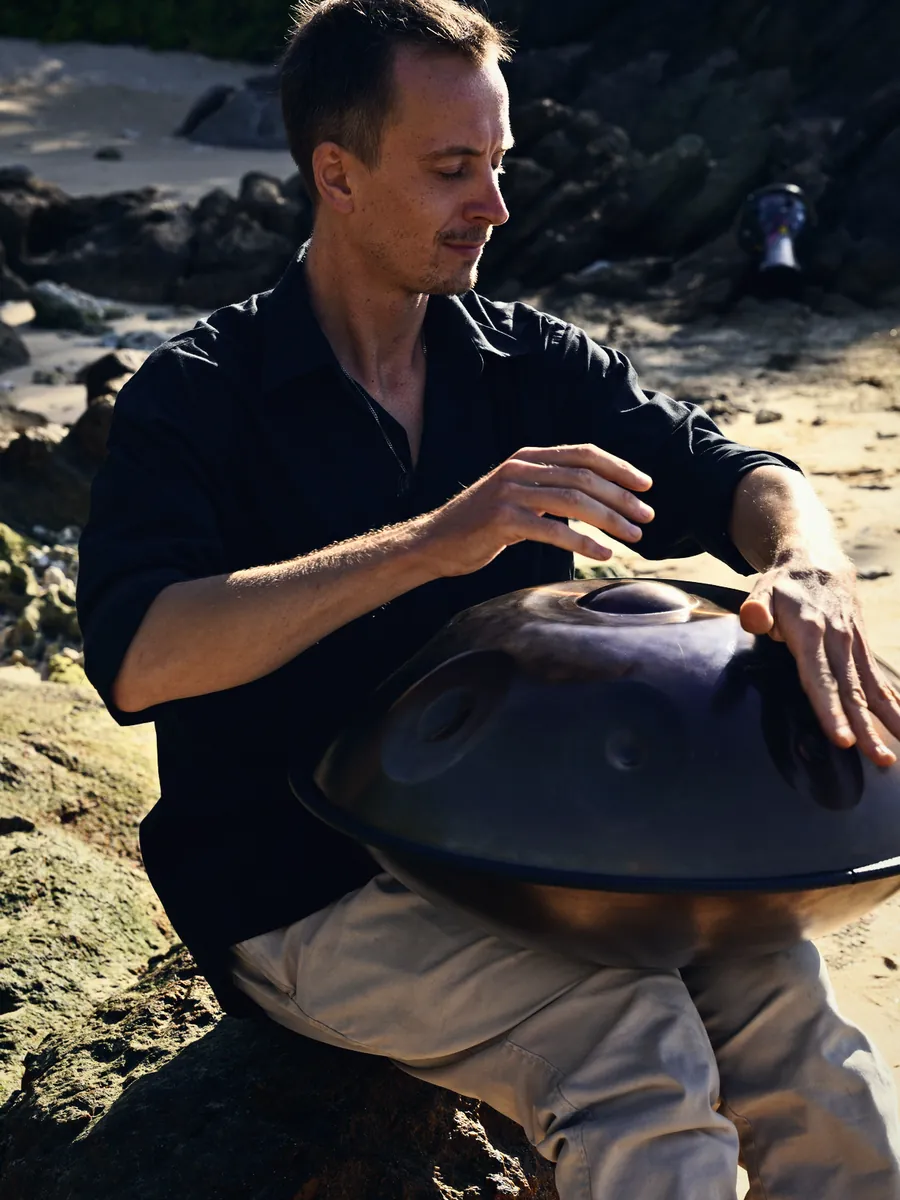
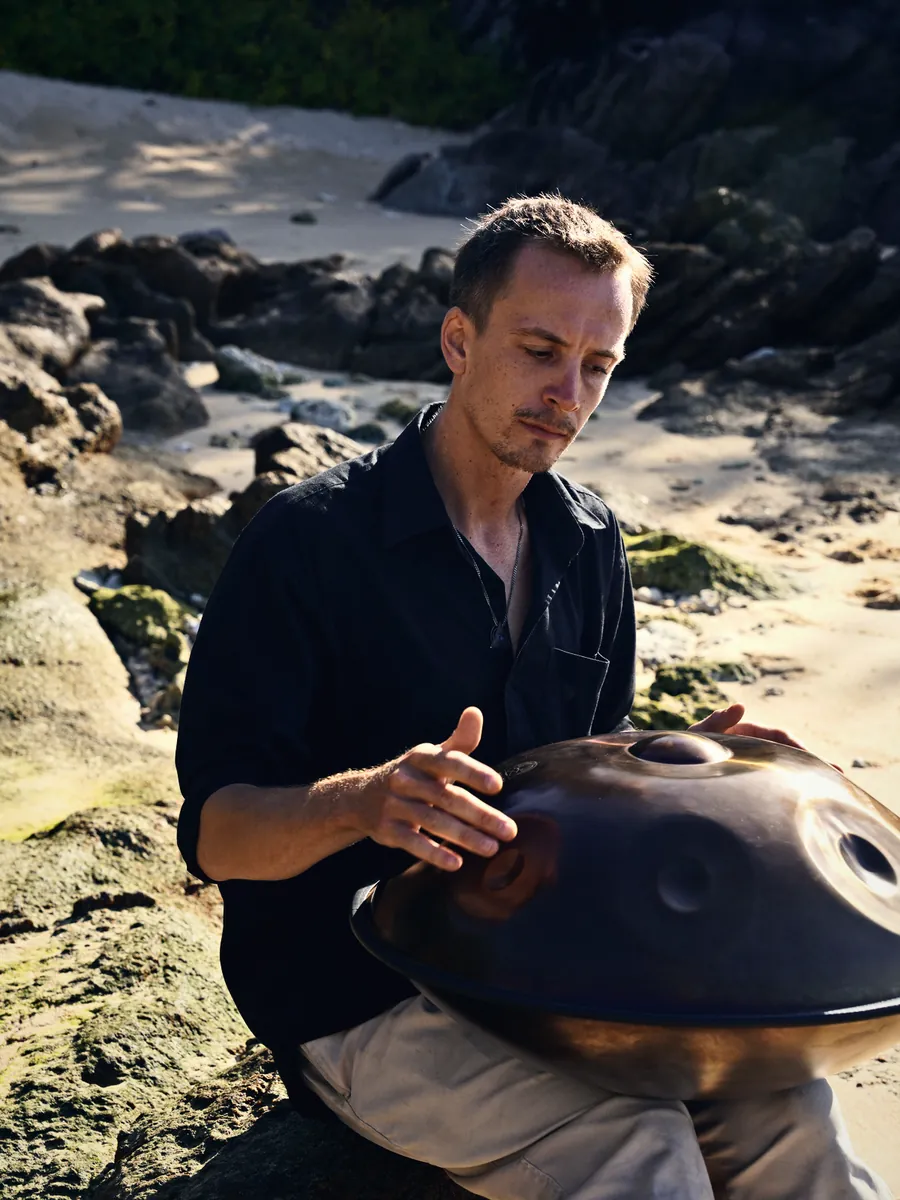
Ice case for photos, tipi in the Temple of Sound, Cinematic in projects, Zemli Sily text, headroom on the andynow.ru case

diff --git a/src/assets/css/site.css b/src/assets/css/site.css
@@ -254,6 +254,67 @@ p { margin: 0 0 1em; }
     inset 0 0 28px rgba(200, 234, 244, 0.1); }
 .resin .photo-in img { scale: 1.035; translate: var(--dx) var(--dy); transition: transform 1s var(--ease), translate .8s var(--ease); }
 .resin.is-tilting .photo-in img { transition: transform 1s var(--ease), translate .18s linear; }
+/* ── ice case: every photo is set in a thick block of clear resin or ice ───────────────────────────
+   The block (.slab, or .ice-box for rooms and videos) is a pale rounded slab with a bright rim; its
+   thick edge catches warm and cool light (.glass::before, a ring masked out of two gradients and a
+   little blurred); round the picture runs a bevel with a split of colour, red on one side and blue on
+   the other, and a sheen that follows the cursor (.glass::after). It leans towards the cursor. */
+.slab, .ice-box { --pad: clamp(10px, 1.4vw, 20px); --r: 30px; --ri: 16px; --rx: 0deg; --ry: 0deg; --mx: 30%; --my: 0%; --dx: 0px; --dy: 0px;
+  position: relative; display: block; padding: var(--pad); border-radius: var(--r); isolation: isolate;
+  background: linear-gradient(140deg, #FFFFFF 0%, #E4ECF0 30%, #FBFDFD 50%, #D7E2E8 78%, #EEF3F5 100%);
+  box-shadow:
+    inset 0 0 0 1px rgba(255, 255, 255, 0.95),
+    inset 0 0 0 2px rgba(150, 170, 182, 0.25),
+    inset 0 3px 2px -1px #fff,
+    inset 0 -4px 8px rgba(100, 122, 135, 0.32),
+    inset 6px 0 10px -4px rgba(255, 145, 45, 0.55),
+    inset -6px 0 10px -4px rgba(80, 160, 255, 0.45),
+    0 0 0 1px rgba(16, 22, 27, 0.08),
+    0 3px 8px -3px rgba(16, 22, 27, 0.16),
+    0 40px 70px -36px rgba(16, 22, 27, 0.6);
+  transform: perspective(1100px) rotateX(var(--rx)) rotateY(var(--ry)); transition: transform .8s var(--ease), box-shadow .8s var(--ease); }
+.slab.is-tilting, .ice-box.is-tilting { transition-duration: .18s, .5s; }
+.slab > .photo-in { border-radius: var(--ri); }
+.slab .photo-in img, .ice-box .photo-in img, .ice-box .video-pic img { scale: 1.035; translate: var(--dx) var(--dy); transition: transform 1s var(--ease), translate .8s var(--ease), opacity .4s; }
+.is-tilting .photo-in img, .is-tilting .video-pic img { transition: transform 1s var(--ease), translate .18s linear, opacity .4s; }
+.glass { position: absolute; inset: 0; z-index: 5; border-radius: inherit; pointer-events: none; }
+.glass::before { content: ''; position: absolute; inset: 0; border-radius: inherit; padding: var(--pad);
+  background:
+    linear-gradient(125deg, rgba(255, 255, 255, 0) 26%, rgba(255, 255, 255, 0.85) 30%, rgba(255, 255, 255, 0) 35%),
+    linear-gradient(100deg, rgba(255, 128, 30, 0.85) 0%, rgba(255, 210, 100, 0.55) 8%, rgba(255, 255, 255, 0) 22%, rgba(255, 255, 255, 0) 72%, rgba(150, 120, 255, 0.35) 86%, rgba(90, 185, 255, 0.6) 94%, rgba(255, 110, 60, 0.7) 100%),
+    linear-gradient(180deg, rgba(255, 200, 80, 0.6) 0%, rgba(255, 255, 255, 0) 22%, rgba(255, 255, 255, 0) 78%, rgba(255, 110, 40, 0.7) 100%);
+  -webkit-mask: linear-gradient(#000 0 0) content-box, linear-gradient(#000 0 0); -webkit-mask-composite: xor;
+  mask: linear-gradient(#000 0 0) content-box, linear-gradient(#000 0 0); mask-composite: exclude;
+  filter: blur(2px); opacity: 0.85; }
+.glass::after { content: ''; position: absolute; inset: var(--pad); border-radius: var(--ri);
+  background:
+    radial-gradient(80% 60% at var(--mx) var(--my), rgba(255, 255, 255, 0.2), rgba(255, 255, 255, 0) 65%),
+    linear-gradient(160deg, rgba(255, 255, 255, 0.16) 0%, rgba(255, 255, 255, 0) 28%);
+  box-shadow:
+    0 0 0 1px rgba(255, 255, 255, 0.95),
+    0 0 0 2px rgba(120, 142, 155, 0.3),
+    0 0 10px 3px rgba(80, 100, 112, 0.22),
+    inset 0 0 0 1px rgba(255, 255, 255, 0.35),
+    inset 2px 0 3px -1px rgba(255, 40, 80, 0.5),
+    inset -2px 0 3px -1px rgba(20, 160, 255, 0.5),
+    inset 0 2px 3px -1px rgba(255, 210, 80, 0.4),
+    inset 0 0 22px rgba(255, 255, 255, 0.12); }
+/* rooms: the whole card is the block; its picture and words sit inside the edge */
+.room.ice-box { overflow: visible; background: linear-gradient(140deg, #FFFFFF 0%, #E7EEF1 34%, #FAFCFC 52%, #DCE6EB 100%); }
+.room.ice-box .photo-in { border-radius: var(--ri); background: var(--night); }
+.room.ice-box::after { inset: var(--pad); border-radius: var(--ri); }
+.room.ice-box h3 { left: calc(22px + var(--pad)); top: calc(20px + var(--pad)); right: calc(60px + var(--pad)); }
+.room.ice-box .room-n { right: calc(22px + var(--pad)); top: calc(26px + var(--pad)); }
+.room.ice-box p { left: calc(22px + var(--pad)); right: calc(64px + var(--pad)); bottom: calc(20px + var(--pad)); }
+.room.ice-box .room-go { right: calc(22px + var(--pad)); bottom: calc(18px + var(--pad)); }
+.room.ice-box .corners { inset: calc(12px + var(--pad)); }
+.room.ice-box:hover .corners { inset: calc(16px + var(--pad)); }
+/* videos: the poster inside the block */
+.video-play.ice-box { padding: var(--pad); overflow: visible; background: linear-gradient(140deg, #FFFFFF 0%, #E7EEF1 34%, #FAFCFC 52%, #DCE6EB 100%); }
+.video-pic { position: absolute; inset: var(--pad); overflow: hidden; border-radius: var(--ri); background: #000; }
+.video-pic img { display: block; }
+.video-play .play { z-index: 6; }
+
 /* cards without a photo: a block of ice on the white */
 .free-item.resin, .quiz-result.resin, .facts-cards li, .project-empty.resin { border: 0; background: linear-gradient(180deg, #FFFFFF 0%, #F1F5F6 100%); }
 .facts-cards li { position: relative; border-radius: 14px; box-shadow: 0 1px 1px rgba(16, 22, 27, 0.06), 0 2px 6px -2px rgba(16, 22, 27, 0.1), 0 26px 48px -30px rgba(16, 22, 27, 0.35), inset 0 0 0 1px rgba(255, 255, 255, 0.9), inset 0 -14px 28px -18px rgba(90, 130, 150, 0.18); }
@@ -264,7 +325,7 @@ p { margin: 0 0 1em; }
 .intro-text > p:not(.label):not(.lead) { max-width: 560px; color: var(--fg-2); font-weight: 300; }
 .intro-text .actions { margin-top: 28px; }
 
-.rooms-rail { overflow: hidden; }
+.rooms-rail { overflow: hidden; padding: 24px 0 64px; margin: -24px 0 -64px; }
 .rooms-grid { display: grid; grid-template-columns: repeat(4, minmax(0, 1fr)); gap: 12px; }
 .room { position: relative; display: block; overflow: hidden; color: #fff; text-decoration: none; background: var(--night); }
 .room .photo-in { border-radius: 0; }
@@ -344,7 +405,7 @@ p { margin: 0 0 1em; }
 
 .teacher { display: grid; grid-template-columns: minmax(0, 0.8fr) minmax(0, 1.2fr); gap: clamp(32px, 6vw, 96px); }
 .teacher p:not(.lead) { color: var(--fg-2); font-weight: 300; max-width: 620px; }
-.strip { display: grid; grid-auto-flow: column; grid-auto-columns: clamp(220px, 22vw, 340px); gap: 12px; margin-top: clamp(56px, 7vw, 96px); padding: 0 var(--gut); overflow-x: auto; scroll-snap-type: x mandatory; scrollbar-width: none; }
+.strip { display: grid; grid-auto-flow: column; grid-auto-columns: clamp(220px, 22vw, 340px); gap: 16px; margin-top: clamp(32px, 5vw, 72px); margin-bottom: -48px; padding: 24px var(--gut) 64px; overflow-x: auto; scroll-snap-type: x mandatory; scrollbar-width: none; }
 .strip::-webkit-scrollbar { display: none; }
 .strip .photo { scroll-snap-align: start; }
 
@@ -534,5 +595,5 @@ a.case:hover h3 { color: var(--orange); }
   .js .photo img { transform: none; }
   .js .photo.is-alive img { animation: none; }
   .live-scan, .stage-glow span { animation: none; top: 52%; }
-  .resin { transform: none; }
+  .resin, .slab, .ice-box { transform: none; }
 }

diff --git a/src/assets/js/site.js b/src/assets/js/site.js
@@ -89,9 +89,10 @@
     photos.forEach((el) => io.observe(el));
   } else photos.forEach((el) => el.classList.add('is-seen'));
 
-  // resin cards lean a little towards the cursor; the gloss follows it, the picture inside moves back
+  // resin cards and ice cases lean a little towards the cursor; the gloss follows it, the picture
+  // inside moves the other way, as if seen through a thick clear block
   if (!still && window.matchMedia('(hover: hover) and (pointer: fine)').matches) {
-    $$('.resin').forEach((el) => {
+    $$('.resin, .slab, .ice-box').forEach((el) => {
       let frame = 0;
       el.addEventListener('pointermove', (e) => {
         cancelAnimationFrame(frame);

diff --git a/tools/photos.py b/tools/photos.py
@@ -38,7 +38,7 @@ OUT = os.path.join(ROOT, 'src', 'assets', 'img')
 PHOTOS = {
     'hero-play':       (BANK + '/andy nika phuket/DSC09938.JPG', 'Andy Now играет на ханге'),
     'portrait-band':   (BANK + '/andy/IMG_5736.JPG', 'Andy Now в повязке и очках играет на ханге'),
-    'play-sun':        (BANK + '/andy nika phuket/DSC09941.JPG', 'Andy Now играет на ханге на солнце'),
+    'play-sun':        (BANK + '/andy nika phuket/DSC09931.JPG', 'Andy Now играет на ханге на камнях у моря'),
     'river-hat':       (ALTAI + '/DSC09998-1.jpg', 'Andy Now играет на ханге у реки на Алтае'),
     'river-wide':      (ALTAI + '/DSC09957-3.jpg', 'Andy Now играет на ханге у реки в горах Алтая'),
     'sculpture':       (ALTAI + '/DSC09370-1.jpg', 'Andy Now с хангом у светящейся скульптуры на Алтае'),
@@ -58,7 +58,7 @@ PHOTOS = {
     'session-wedding': (BANK + '/хэндпан свадьба/photo_2026-02-04 14.56.30.jpeg', 'Живой ханг на вечернем событии в лесу'),
     'event-portrait':  (BANK + '/photo andy handpan/3C6728CF-64FE-4E7F-A4C1-4C23041F4D0D.JPG', 'Andy Now играет на ханге на событии'),
     'temple-inside':   (HPS + '/temple-inside.webp', 'Внутри зеркального купола Храма Звука'),
-    'temple-winter':   (SUPER + '/temple-winter.webp', 'Зеркальный Храм Звука зимой'),
+    'altai-tipi':      (os.path.expanduser('~/Downloads/handpan-sphere/marketing/carousels/assets/photos/altai-valley-hd.jpg'), 'Типи на поляне в долине Катуни на рассвете'),
     'temple-sunrise':  (HPS + '/temple-sunrise.webp', 'Зеркальный Храм Звука на рассвете, Алтай'),
     'temple-summer':   (BANK + '/DJI_20240401003113_0213_D.JPG', 'Зеркальный Храм Звука летом в долине Катуни'),
     'cinematic':       (os.path.expanduser('~/Downloads/now./синематик 2/DSC01232.jpg'), 'Съёмка на телефон: кадр школы мобильной видеосъёмки Синематик'),

diff --git a/README.md b/README.md
@@ -46,6 +46,7 @@ sources/               исходники, которых нет в фотоба
 - **Шрифты.** Montserrat (переменный, 100–900): в заголовках первое слово тонкое, остальное жирное. JetBrains Mono для цифр, подписей и трекеров. Literata для чтения журнала. Все OFL, лежат в `src/assets/fonts`.
 - **Форма.** Названия секций между тильдой и точкой со слешем: `~ журнал ./`, как в `~ontheflow./`. Нумерованные строки 01, 02… на тонких линиях, квадратные кнопки, крупные тонкие цифры фактов.
 - **Карточки.** Будто залиты прозрачной смолой или льдом: скруглённый блок, тонкая светлая кромка, блик, который идёт за курсором, глубина у нижнего края. Блок чуть наклоняется к курсору, картинка внутри смещается в обратную сторону. Класс `resin`. Эффект нарочно тихий.
+- **Ледяной кейс.** Каждое фото (и карточки разделов, и видео) стоит в толстом прозрачном блоке, как сертификат zorian: светлая плита со скруглёнными углами, яркая кромка, в толще тёплый и холодный отсветы и блик, вокруг снимка фаска с цветным расколом (красный с одной стороны, синий с другой). Блок наклоняется к курсору. Разметка: `.slab` + `.glass` (`photo()` в `layout.mjs`), для карточек и видео `.ice-box`. Голое фото: класс `flat`.
 - **Фото.** Все цветные, в одном кинематографичном грейде. Сразу видно размытое превью 16 px (встроено в страницу). Само фото браузер видит всегда и грузит заранее, в одном из трёх размеров; превью лежит поверх и уезжает вниз за оранжевой скан-линией за 0,6 с, когда фото пришло и стоит на экране. Потом фото медленно дышит. Прятать само фото (clip-path) нельзя: браузер тогда считает его невидимым и не грузит. На карточках подпись-трекер в моно.
 - **Первый экран.** Фото Andy у моря (Пхукет, кадр DSC00134), вписанное в страницу: кадр начинается на 36 % высоты, а голова и плечи выходят из него на белое. По фото идёт скан-линия, свечение за ней маской ограничено самим фото. Три трекера (ханг, горизонт, камни) медленно плывут, их координаты живые. Четыре фразы рассыпают фото на ~46 000 цветных точек (на телефоне ~24 000), и точки стаей собираются в формы: ханг сверху с оранжевым звучащим полем (обучение), ханг в пространстве (инструменты), звуковые волны (события), куб (цифровые продукты). Потом точки летят обратно, фото проявляется, симуляция останавливается. Без WebGL остаётся фото со сканом и трекерами.
 
